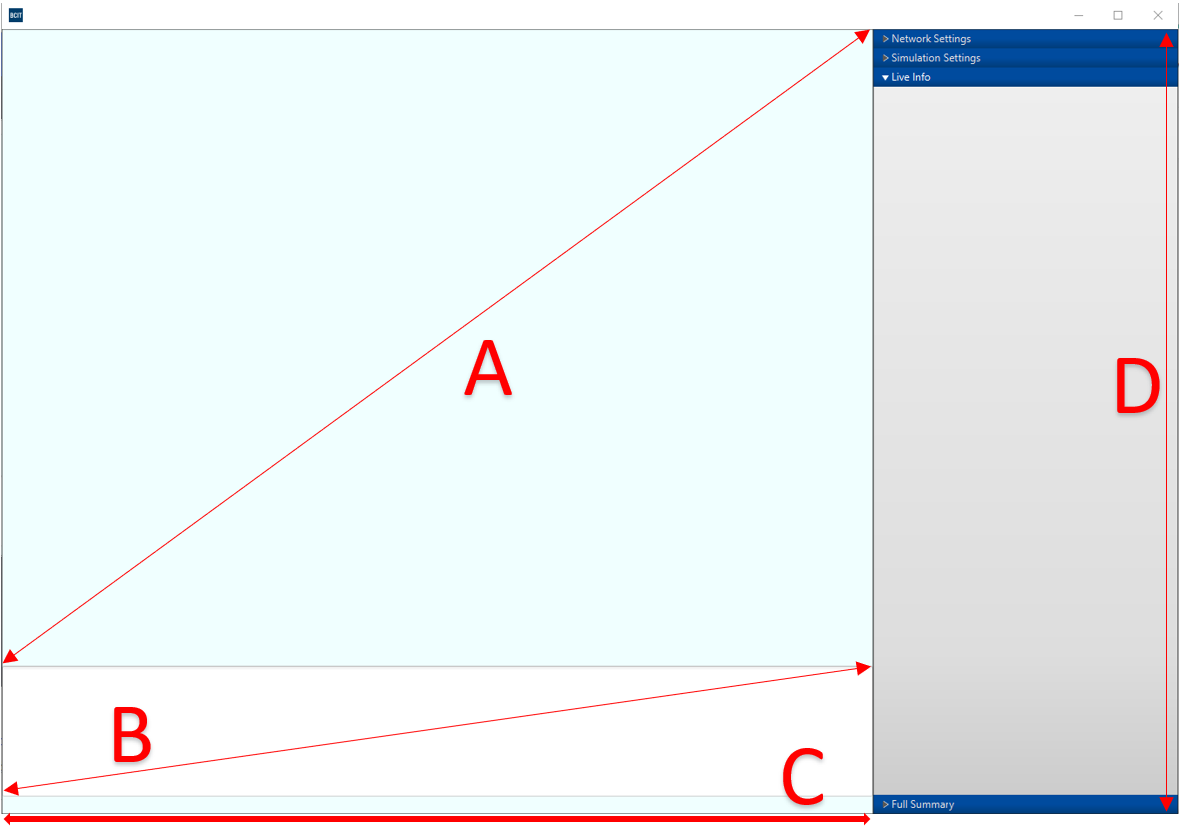
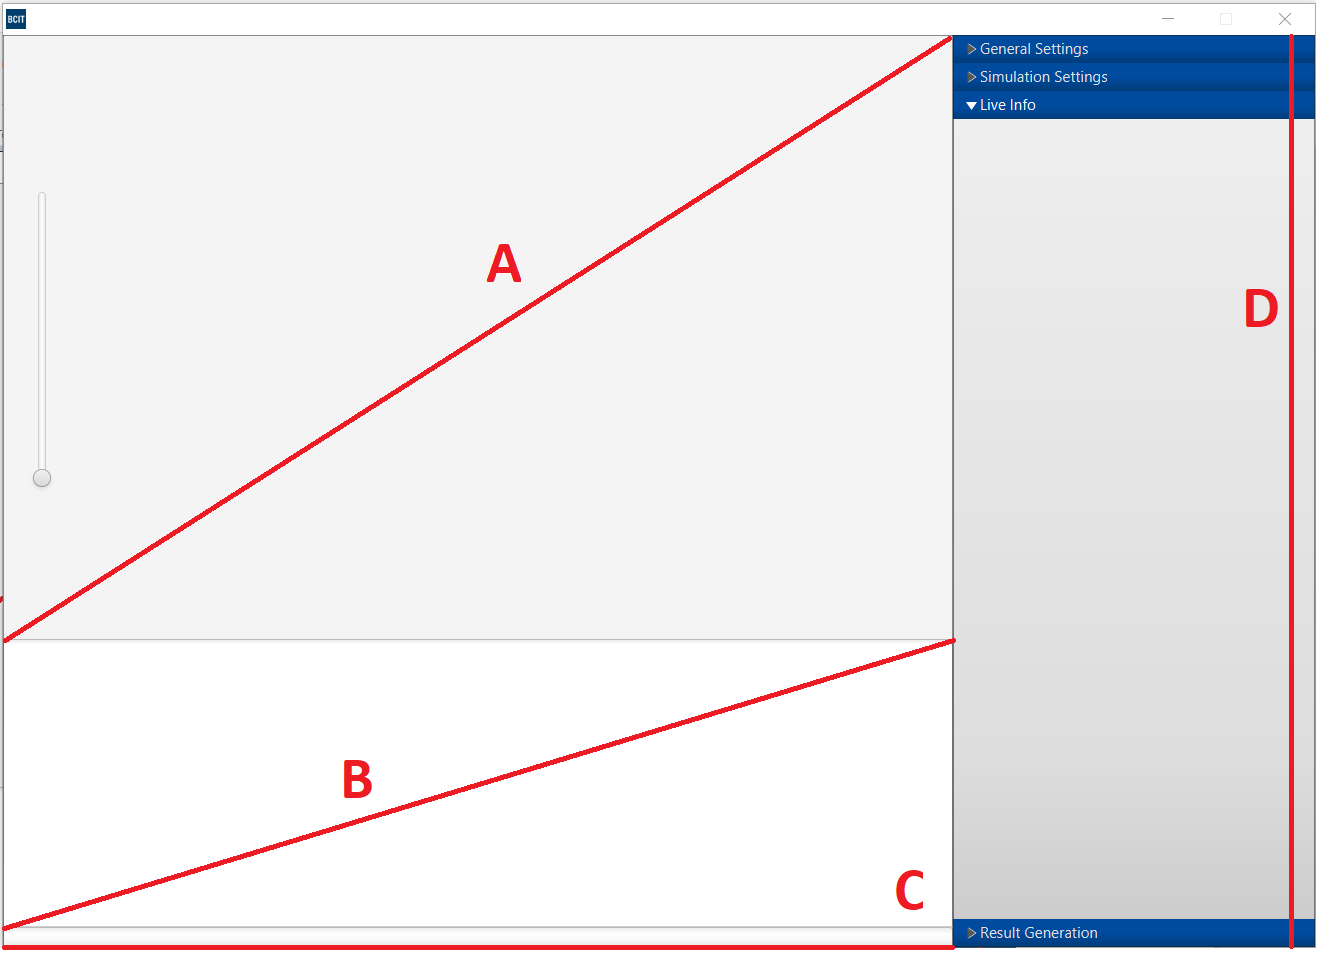
Updated Major Components and Simulation Settings
Updated Major Components Screenshot
Updated Simulation Settings to have two screenshot for multiple and single simulations
Updated Readme to match above screenshots

diff --git a/README.md b/README.md
@@ -102,7 +102,7 @@ Upon setup completion, you will be able to run the simulator with the following 
 </table>
 
 
-## 2) Network Settings Controller
+## 2) General Settings Controller
 ![image alt text](./docs/image_20.png)
 
 **A:** Create topology button that opens up a dialog window where a user can enter a google maps API key.  Once entered the user can generate a network topology to be loaded.
@@ -121,34 +121,70 @@ Upon setup completion, you will be able to run the simulator with the following 
 
 **E:** Language dropdown allows you to choose the language that the simulator will be displayed in.
 
-## 3) Simulation Settings Controller
+## 3a) Simulation Settings Controller (Single Simulation)
 ![image alt text](./docs/image_21.png)
 
-**A:** Choose between algorithm types (e.g., AMRA, SPF), which dictate how routing occurs in the network and/or how optical resources are allocated.
+**A:** Turns on/off multiple simulations 
 
-**B:** Choose between traffic generator types (e.g., No backup, Shared backup, and Dedicated backup).  This is the ability for a network to recover from resource failures.
+**B:** Choose between algorithm types (e.g., AMRA, SPF), which dictate how routing occurs in the network and/or how optical resources are allocated.
 
-**C:** Erlang number input determines the network traffic intensity
+**C:** Choose between traffic generator types (e.g., No backup, Shared backup, and Dedicated backup).  This is the ability for a network to recover from resource failures.
 
-**D:** Seed number input is used by a random number generator to make the same simulation multiple times (produces same result) 
+**D:** Erlang number input determines the network traffic intensity
 
-**E:** Alpha number input determines the probability of link failure 
+**E:** Seed number input is used by a random number generator to make the same simulation multiple times (produces same result) 
 
-**F:** Demands count number input is the number of demands to be simulated in the network
+**F:** Alpha number input determines the probability of link failure 
 
-**G:** Allows replica (data center) to be preserved for backup traffic - it means that primary and backup traffic will have the same replica.
+**G:** Demands count number input is the number of demands to be simulated in the network
 
 **H:** Allows modulation to be changed dynamically in simulation
 
-**I:** Modulation types to be used during simulation
+**I:** Modulation types to be used during simulation 
 
 **J:** Number of candidate paths for each request to reach a destination
 
 **K:** Begins simulation
 
-**L:** Pause simulation or Resumes simulation (if paused)
+**L:** Pauses simulation
 
 **M:** Cancels running simulation or reloads simulation if not running
+
+**N:** Resets the topology to the initial state (in case the topology becomes bugged)
+
+## 3b)  Simulation Settings Controller (Multiple Simulations)
+![image alt text](./docs/image_23.png)
+
+**A:** Turns on/off multiple simulations 
+
+**B:** Choose between algorithm types (e.g., AMRA, SPF), which dictate how routing occurs in the network and/or how optical resources are allocated.
+
+**C:** Choose between traffic generator types (e.g., No backup, Shared backup, and Dedicated backup).  This is the ability for a network to recover from resource failures.
+
+**D:** Amount of simulations run at each erlang
+
+**E:** The steps between the given erlang range
+
+**F:** The upper (left) and lower (right) limit of the erlang range
+
+**G:** Alpha number input determines the probability of link failure 
+
+**H:** Demands count number input is the number of demands to be simulated in the network
+
+**I:** Modulation types to be used during simulation
+
+**J:** Allows modulation to be changed dynamically in simulation
+
+**K:** Number of candidate paths for each request to reach a destination
+
+**L:** Begins simulation
+
+**M:** Pauses simulation
+
+**N:** Cancels running simulation or reloads simulation if not running
+
+**O:** Resets the topology to the initial state (in case the topology becomes bugged)
+
 
 ## 4) Live Info Pane
 ![image alt text](./docs/image_22.png)
